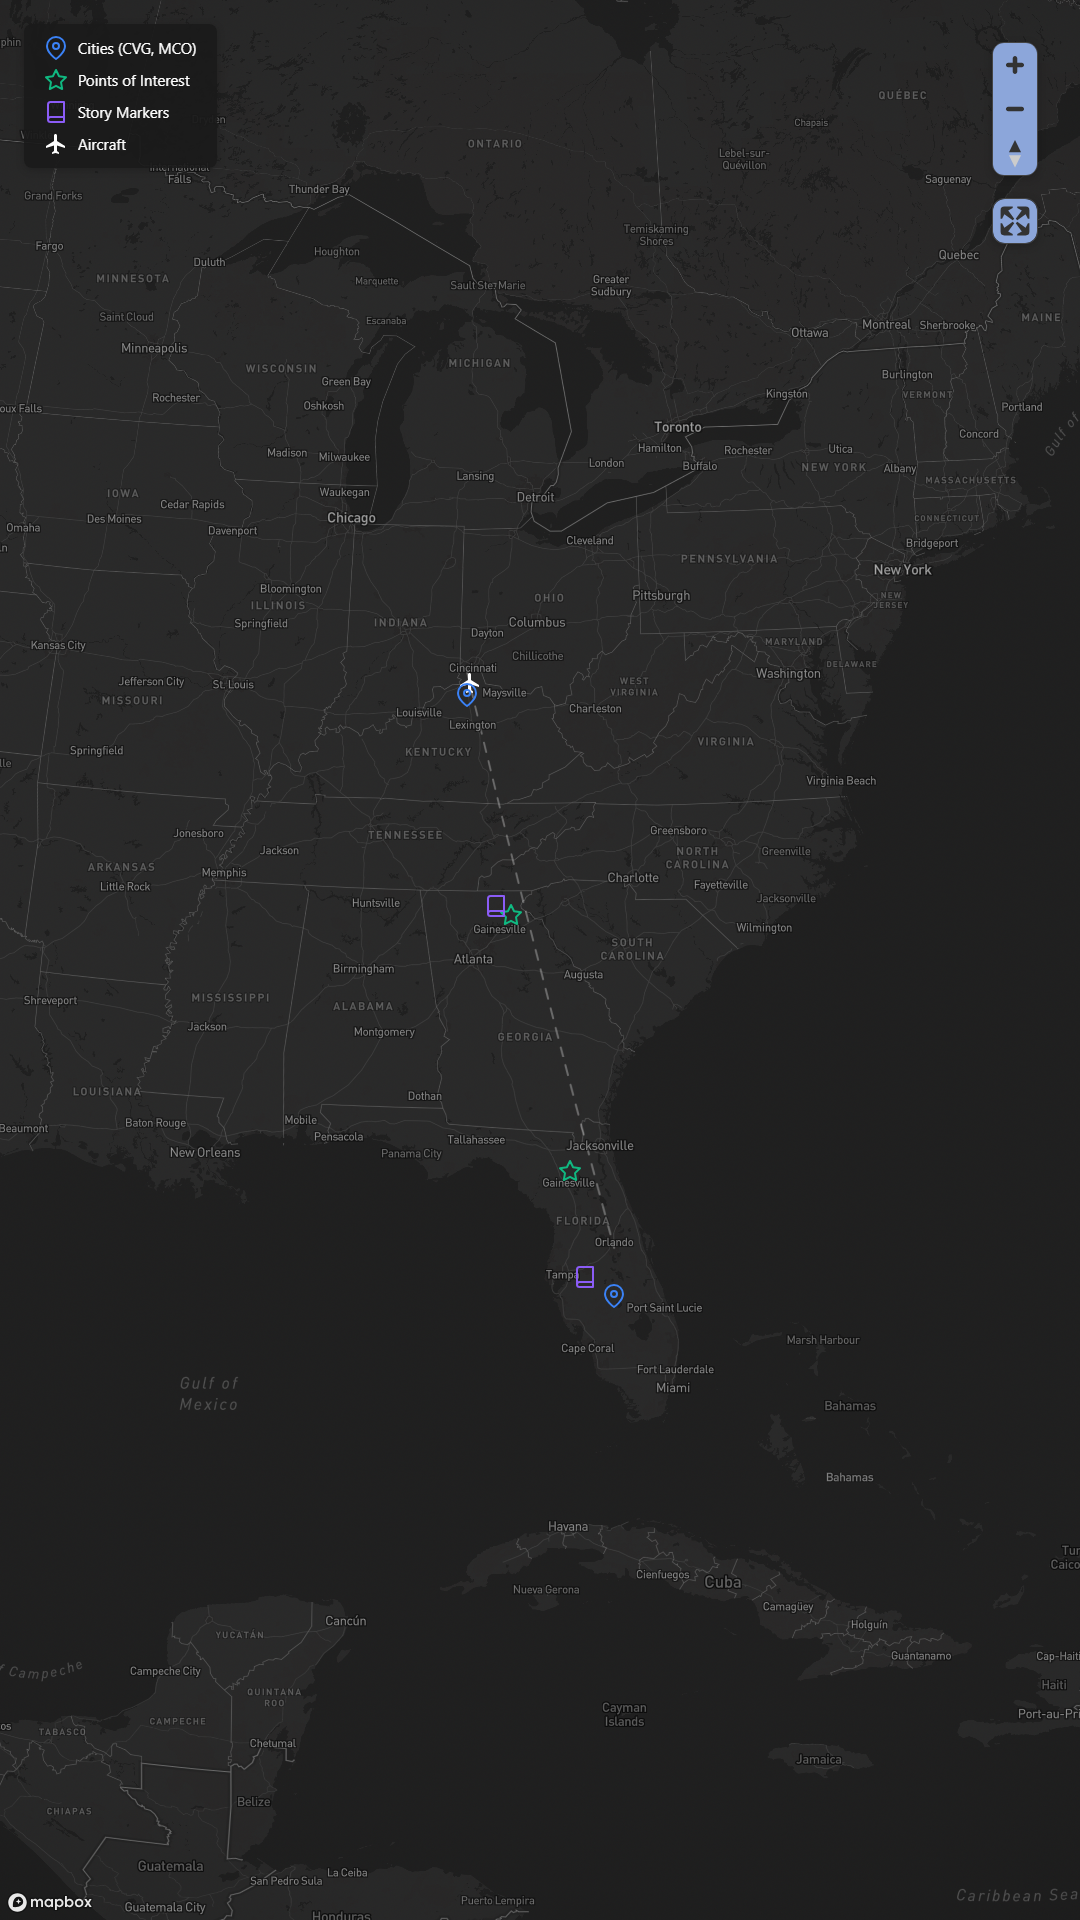
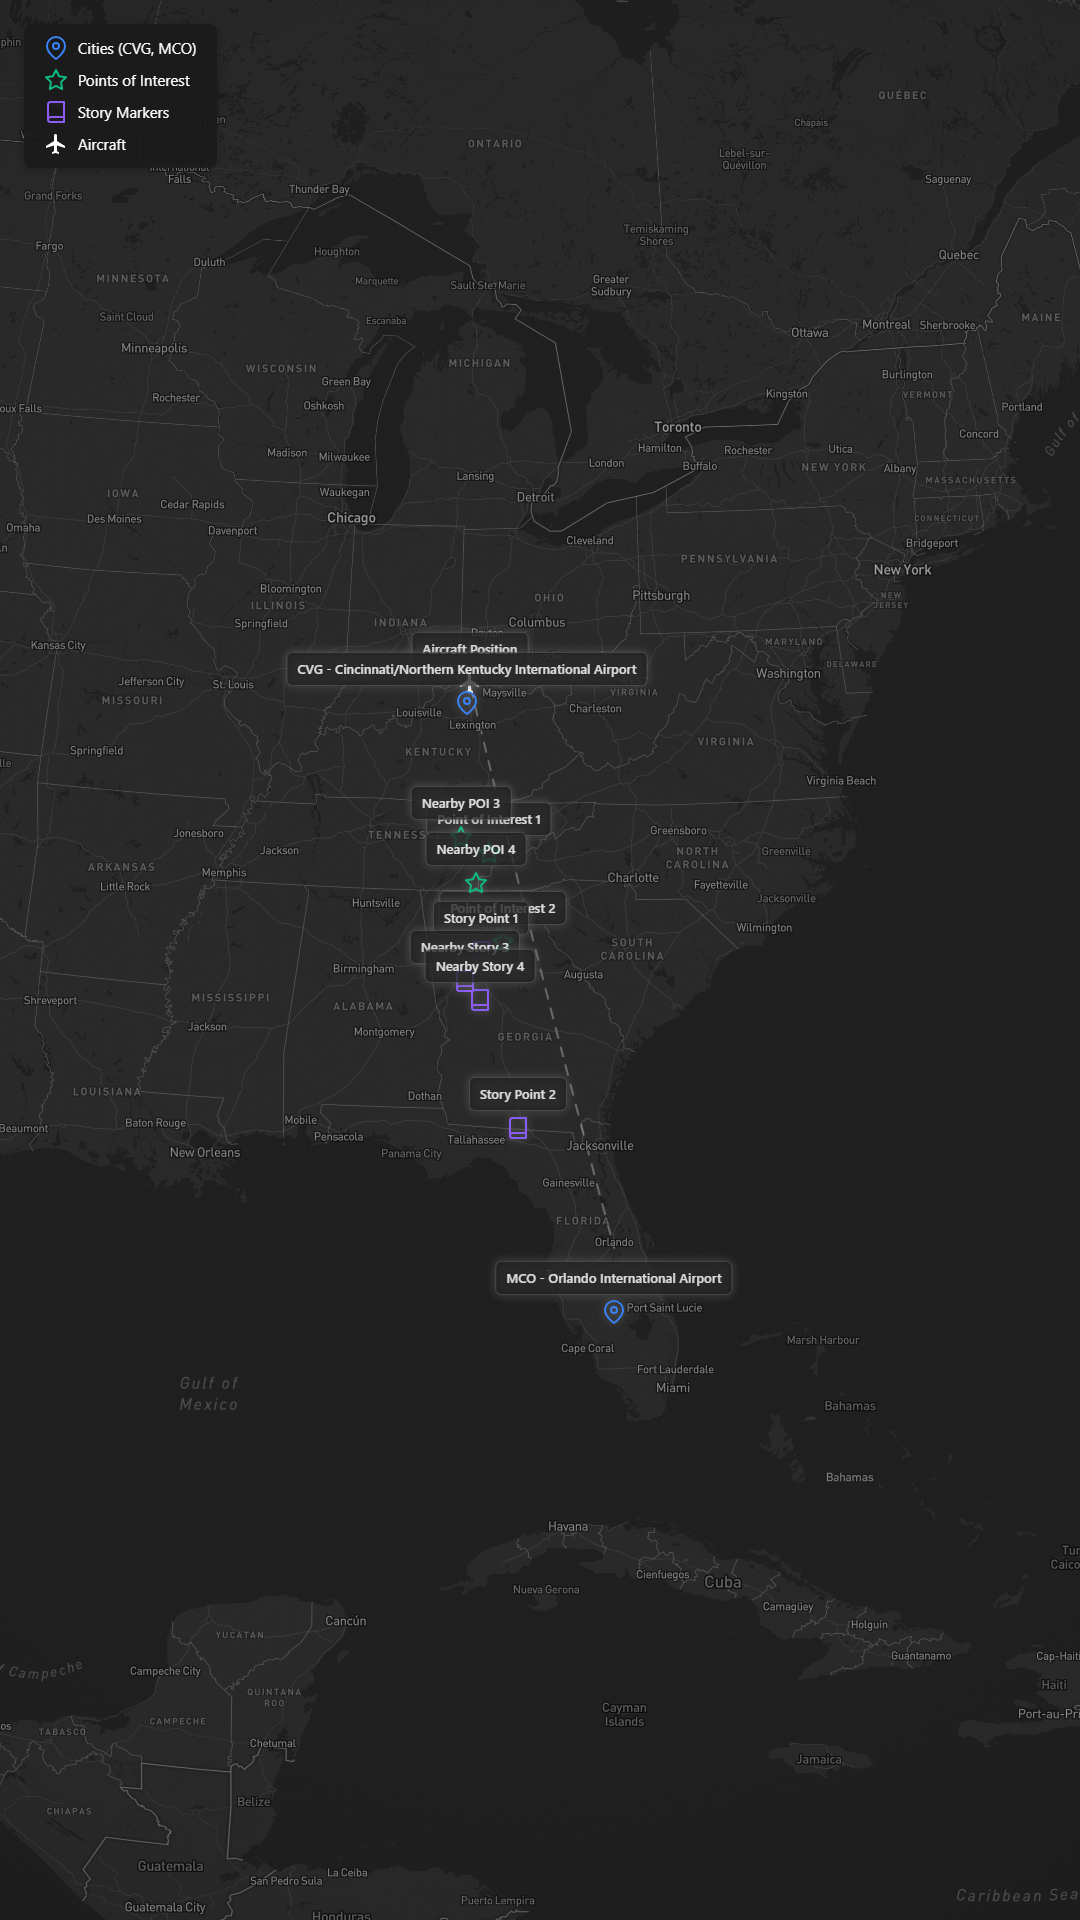
Enhance screenshot automation and map visibility features
- Added `waitForMapReady` and `hideMapUI` methods to improve screenshot reliability by ensuring the map is fully loaded and UI elements are hidden.
- Updated `captureOverview` and `captureZoom` methods to utilize the new waiting logic and hide map controls for cleaner screenshots.
- Increased zoom level in `config.js` for a closer view of the map.
- Enhanced marker styles in `styles.css` for better visibility, including size adjustments and glow effects.
- Implemented new visibility checks in `map.js` to ensure the map is properly loaded before capturing screenshots.
- Added additional points of interest and story markers in `markers.js` for improved context during zoom views.
- Updated screenshot assets to reflect the latest changes in the automation process.

diff --git a/automation/capture-simple.js b/automation/capture-simple.js
@@ -101,27 +101,75 @@ class SimpleScreenshotCapture {
         }
     }
 
+    async waitForMapReady() {
+        try {
+            console.log('Waiting for map to be ready...');
+            
+            // Wait for the map to be initialized and idle
+            await this.page.waitForFunction(() => {
+                return window.flightPathMap && window.flightPathMap.isInitialized && window.flightPathMap.map && window.flightPathMap.map.isStyleLoaded();
+            }, { timeout: 30000 });
+            
+            console.log('Map style loaded');
+            
+            // Wait for map to be idle (all tiles loaded)
+            await this.page.waitForFunction(() => {
+                return window.flightPathMap && window.flightPathMap.map && window.flightPathMap.map.loaded();
+            }, { timeout: 30000 });
+            
+            console.log('Map fully loaded');
+            
+            // Check if map is visible
+            const isVisible = await this.page.evaluate(() => {
+                return window.flightPathMap && window.flightPathMap.isMapVisible ? window.flightPathMap.isMapVisible() : true;
+            });
+            
+            console.log('Map visible:', isVisible);
+            
+            if (!isVisible) {
+                console.warn('Map may not be visible, but continuing...');
+            }
+            
+            // Additional wait to ensure everything is rendered
+            await new Promise(resolve => setTimeout(resolve, 3000));
+            
+        } catch (error) {
+            console.error('Error waiting for map ready:', error);
+            throw error;
+        }
+    }
+
+    async hideMapUI() {
+        // Hide map controls and attribution for clean screenshots
+        await this.page.evaluate(() => {
+            document.querySelectorAll('.mapboxgl-ctrl').forEach(el => el.style.display = 'none');
+            const attrib = document.querySelector('.mapboxgl-ctrl-attrib');
+            if (attrib) attrib.style.display = 'none';
+        });
+    }
+
     async captureOverview() {
         try {
             console.log('Capturing overview screenshot...');
-            
-            // Simple approach: just wait and take screenshot
+            await this.waitForMapReady();
+            // Set map to overview view
+            await this.page.evaluate(async () => {
+                if (window.flightPathMap && window.flightPathMap.setOverviewView) {
+                    await window.flightPathMap.setOverviewView();
+                }
+            });
+            await this.waitForMapReady();
+            await this.hideMapUI();
             await new Promise(resolve => setTimeout(resolve, SCREENSHOT_CONFIG.animationWait));
-            
-            // Ensure screenshot directory exists
             await this.ensureScreenshotDirectory();
-            
-            // Capture screenshot
             const screenshotPath = path.join(this.screenshotDir, 'overview.png');
             await this.page.screenshot({
                 path: screenshotPath,
                 fullPage: false,
                 type: 'png'
             });
-            
             console.log(`Overview screenshot saved to: ${screenshotPath}`);
             return screenshotPath;
-            
         } catch (error) {
             console.error('Failed to capture overview screenshot:', error);
             throw error;
@@ -131,24 +179,55 @@ class SimpleScreenshotCapture {
     async captureZoom() {
         try {
             console.log('Capturing zoom screenshot...');
+            await this.waitForMapReady();
             
-            // Simple approach: just wait and take screenshot
+            // Debug: Check map state before setting zoom view
+            const mapState = await this.page.evaluate(() => {
+                if (window.flightPathMap) {
+                    return {
+                        isInitialized: window.flightPathMap.isInitialized,
+                        center: window.flightPathMap.map ? window.flightPathMap.map.getCenter() : null,
+                        zoom: window.flightPathMap.map ? window.flightPathMap.map.getZoom() : null,
+                        hasAircraftMarker: window.flightPathMap.markerManager ? !!window.flightPathMap.markerManager.getAircraftMarker() : false
+                    };
+                }
+                return null;
+            });
+            console.log('Map state before zoom view:', mapState);
+            
+            // Set map to zoom view
+            await this.page.evaluate(async () => {
+                if (window.flightPathMap && window.flightPathMap.setZoomView) {
+                    await window.flightPathMap.setZoomView();
+                }
+            });
+            
+            // Wait for zoom animation to complete
+            await new Promise(resolve => setTimeout(resolve, 3000));
+            
+            // Debug: Check map state after setting zoom view
+            const mapStateAfter = await this.page.evaluate(() => {
+                if (window.flightPathMap && window.flightPathMap.map) {
+                    return {
+                        center: window.flightPathMap.map.getCenter(),
+                        zoom: window.flightPathMap.map.getZoom()
+                    };
+                }
+                return null;
+            });
+            console.log('Map state after zoom view:', mapStateAfter);
+            
+            await this.hideMapUI();
             await new Promise(resolve => setTimeout(resolve, SCREENSHOT_CONFIG.animationWait));
-            
-            // Ensure screenshot directory exists
             await this.ensureScreenshotDirectory();
-            
-            // Capture screenshot
             const screenshotPath = path.join(this.screenshotDir, 'zoom.png');
             await this.page.screenshot({
                 path: screenshotPath,
                 fullPage: false,
                 type: 'png'
             });
-            
             console.log(`Zoom screenshot saved to: ${screenshotPath}`);
             return screenshotPath;
-            
         } catch (error) {
             console.error('Failed to capture zoom screenshot:', error);
             throw error;

diff --git a/src/js/markers.js b/src/js/markers.js
@@ -26,13 +26,14 @@ class MarkerManager {
             FLIGHT_CONFIG.totalFlightTime
         );
         
-        // Define POI locations (strategic points between CVG and MCO)
-        const poi1 = calculateIntermediatePoint(COORDINATES.CVG, COORDINATES.MCO, 0.3);
-        const poi2 = calculateIntermediatePoint(COORDINATES.CVG, COORDINATES.MCO, 0.7);
+        // Define POI locations near the aircraft position for better zoom view visibility
+        // Position POIs closer to the aircraft location (within ~50-100km)
+        const poi1 = calculateIntermediatePoint(COORDINATES.CVG, COORDINATES.MCO, 0.15); // Closer to CVG
+        const poi2 = calculateIntermediatePoint(COORDINATES.CVG, COORDINATES.MCO, 0.25); // Near aircraft
         
-        // Define story marker locations (narrative-relevant points)
-        const story1 = calculateIntermediatePoint(COORDINATES.CVG, COORDINATES.MCO, 0.2);
-        const story2 = calculateIntermediatePoint(COORDINATES.CVG, COORDINATES.MCO, 0.8);
+        // Define story marker locations near the aircraft for zoom view
+        const story1 = calculateIntermediatePoint(COORDINATES.CVG, COORDINATES.MCO, 0.1); // Very close to CVG
+        const story2 = calculateIntermediatePoint(COORDINATES.CVG, COORDINATES.MCO, 0.35); // Further along path
         
         this.markerData = {
             cities: [
@@ -65,6 +66,20 @@ class MarkerManager {
                     name: 'Point of Interest 2',
                     type: 'POI',
                     description: 'Strategic location along flight path'
+                },
+                {
+                    id: 'poi-3',
+                    coordinates: [aircraftPosition[0] - 0.2, aircraftPosition[1] + 0.1],
+                    name: 'Nearby POI 3',
+                    type: 'POI',
+                    description: 'Local point of interest near aircraft'
+                },
+                {
+                    id: 'poi-4',
+                    coordinates: [aircraftPosition[0] + 0.15, aircraftPosition[1] - 0.15],
+                    name: 'Nearby POI 4',
+                    type: 'POI',
+                    description: 'Local point of interest near aircraft'
                 }
             ],
             story: [
@@ -81,6 +96,20 @@ class MarkerManager {
                     name: 'Story Point 2',
                     type: 'STORY',
                     description: 'Narrative-relevant location'
+                },
+                {
+                    id: 'story-3',
+                    coordinates: [aircraftPosition[0] - 0.1, aircraftPosition[1] - 0.2],
+                    name: 'Nearby Story 3',
+                    type: 'STORY',
+                    description: 'Local story point near aircraft'
+                },
+                {
+                    id: 'story-4',
+                    coordinates: [aircraftPosition[0] + 0.25, aircraftPosition[1] + 0.05],
+                    name: 'Nearby Story 4',
+                    type: 'STORY',
+                    description: 'Local story point near aircraft'
                 }
             ],
             aircraft: [
@@ -212,8 +241,11 @@ class MarkerManager {
             const svgWrapper = document.createElement('div');
             svgWrapper.className = 'marker-svg-wrapper';
             svgWrapper.setAttribute('aria-hidden', 'true');
-            svgWrapper.style.width = '24px';
-            svgWrapper.style.height = '24px';
+            // Use larger size for zoom view
+            const isZoomView = document.body.classList.contains('zoom-view');
+            const size = isZoomView ? '36px' : '32px';
+            svgWrapper.style.width = size;
+            svgWrapper.style.height = size;
             svgWrapper.style.display = 'flex';
             svgWrapper.style.alignItems = 'center';
             svgWrapper.style.justifyContent = 'center';

diff --git a/src/js/map.js b/src/js/map.js
@@ -47,7 +47,7 @@ class FlightPathMap {
                 failIfMajorPerformanceCaveat: false, // Allow software rendering
                 localIdeographFontFamily: "'Noto Sans', 'Noto Sans CJK SC', sans-serif",
                 // Additional options for headless browser compatibility
-                interactive: false, // Disable interactions for screenshots
+                interactive: true, // Enable interactions for proper rendering
                 trackResize: false, // Disable resize tracking
                 renderWorldCopies: false, // Disable world copies for better performance
                 // WebGL compatibility options
@@ -130,6 +130,34 @@ class FlightPathMap {
         
         showError('Map loading failed. Using fallback visualization.');
         hideLoading();
+    }
+    
+    /**
+     * Check if map is properly loaded and visible
+     */
+    isMapVisible() {
+        try {
+            if (!this.map || !this.map.isStyleLoaded()) {
+                return false;
+            }
+            
+            // Check if map container has content
+            const mapContainer = document.getElementById('map');
+            if (!mapContainer || mapContainer.children.length === 0) {
+                return false;
+            }
+            
+            // Check if map canvas exists and has content
+            const canvas = mapContainer.querySelector('canvas');
+            if (!canvas || canvas.width === 0 || canvas.height === 0) {
+                return false;
+            }
+            
+            return true;
+        } catch (error) {
+            console.error('Error checking map visibility:', error);
+            return false;
+        }
     }
 
     /**
@@ -266,6 +294,9 @@ class FlightPathMap {
                 throw new Error('Map not initialized');
             }
             
+            // Remove zoom view class for overview
+            document.body.classList.remove('zoom-view');
+            
             const { zoom, center } = MAP_CONFIG.overview;
             console.log('Overview view config:', { zoom, center });
             
@@ -314,14 +345,17 @@ class FlightPathMap {
             console.log('Aircraft coordinates:', aircraftCoords);
             console.log('Zoom level:', zoom);
             
-            // Calculate center to position aircraft in top third of frame
-            const bounds = this.map.getBounds();
-            const mapHeight = bounds.getNorth() - bounds.getSouth();
-            const offset = mapHeight * 0.2; // Move center up by 20% of map height
+            // Simple approach: position aircraft in top third by adjusting center
+            // Move the center south so the aircraft appears higher in the frame
+            const latOffset = 0.5; // Adjust this value to fine-tune positioning
+            const center = [aircraftCoords[0], aircraftCoords[1] - latOffset];
             
-            const center = [aircraftCoords[0], aircraftCoords[1] + offset];
-            console.log('Calculated center:', center);
+            console.log('Setting zoom view center:', center);
             
+            // Add zoom view class to body for enhanced marker styling
+            document.body.classList.add('zoom-view');
+            
+            // First set the zoom and center
             await this.map.flyTo({
                 center: center,
                 zoom: zoom,

diff --git a/src/css/styles.css b/src/css/styles.css
@@ -134,8 +134,8 @@ body {
 
 /* Custom marker styles */
 .marker {
-    width: 24px;
-    height: 24px;
+    width: 32px;
+    height: 32px;
     border: none;
     border-radius: 0;
     background: none;
@@ -147,6 +147,8 @@ body {
     display: flex;
     align-items: center;
     justify-content: center;
+    /* Add subtle glow for better visibility */
+    filter: drop-shadow(0 0 4px rgba(255, 255, 255, 0.3));
 }
 
 .marker.cities,
@@ -171,20 +173,22 @@ body {
 /* Marker labels */
 .marker-label {
     position: absolute;
-    top: -30px;
+    top: -35px;
     left: 50%;
     transform: translateX(-50%);
-    background-color: rgba(26, 26, 26, 0.9);
+    background-color: rgba(26, 26, 26, 0.95);
     color: #ffffff;
-    padding: 4px 8px;
-    border-radius: 4px;
-    font-size: 12px;
-    font-weight: 500;
+    padding: 6px 10px;
+    border-radius: 6px;
+    font-size: 13px;
+    font-weight: 600;
     white-space: nowrap;
-    opacity: 0;
+    opacity: 0.8;
     transition: opacity 0.2s ease;
     pointer-events: none;
     z-index: 10;
+    border: 1px solid rgba(255, 255, 255, 0.2);
+    box-shadow: 0 2px 8px rgba(0, 0, 0, 0.3);
 }
 
 .marker:hover .marker-label {
@@ -193,8 +197,8 @@ body {
 
 /* SVG marker wrapper for inline icons */
 .marker-svg-wrapper {
-    width: 24px;
-    height: 24px;
+    width: 32px;
+    height: 32px;
     display: flex;
     align-items: center;
     justify-content: center;
@@ -431,4 +435,25 @@ body {
         height: 18px;
         margin-right: 6px;
     }
+}
+
+/* Zoom view styles for enhanced marker visibility */
+.zoom-view .marker {
+    width: 36px;
+    height: 36px;
+    filter: drop-shadow(0 0 6px rgba(255, 255, 255, 0.4));
+}
+
+.zoom-view .marker-svg-wrapper {
+    width: 36px;
+    height: 36px;
+}
+
+.zoom-view .marker-label {
+    opacity: 1;
+    font-size: 14px;
+    font-weight: 700;
+    background-color: rgba(26, 26, 26, 0.98);
+    border: 2px solid rgba(255, 255, 255, 0.3);
+    box-shadow: 0 4px 12px rgba(0, 0, 0, 0.5);
 } 

diff --git a/src/js/config.js b/src/js/config.js
@@ -52,7 +52,7 @@ const MAP_CONFIG = {
         dimensions: { width: 1080, height: 1920 }
     },
     zoom: {
-        zoom: 9,
+        zoom: 10, // Increased zoom for closer view
         center: null, // Will be set to aircraft position
         dimensions: { width: 1080, height: 1920 }
     },
